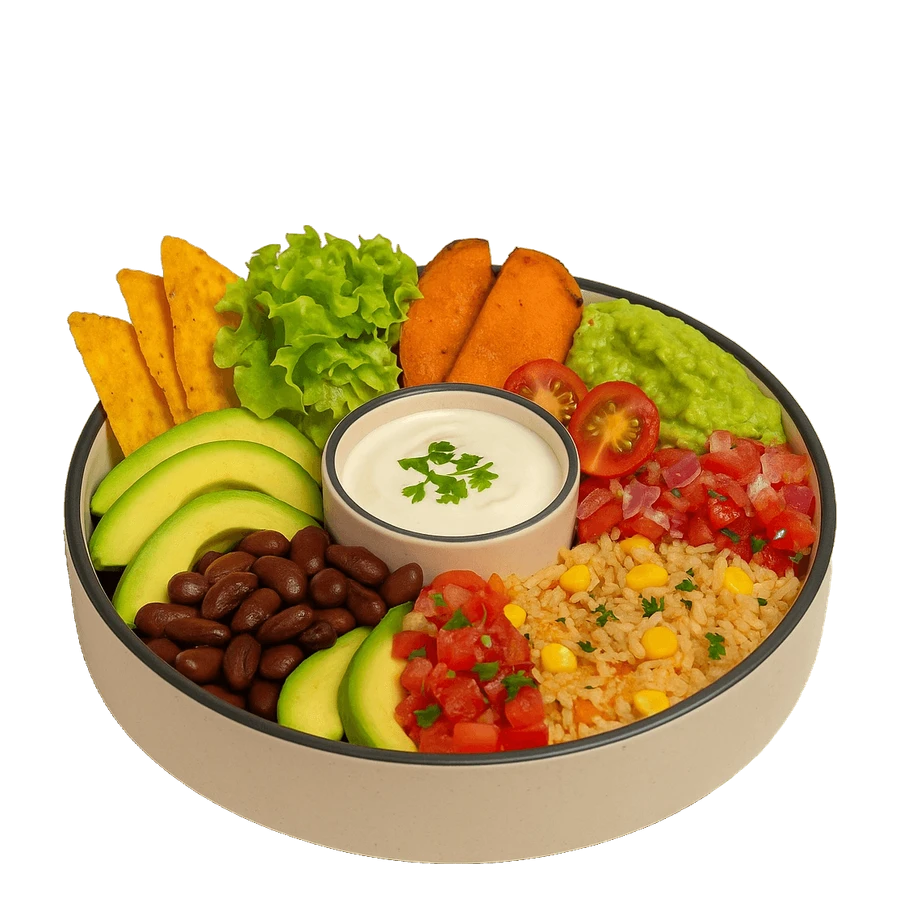
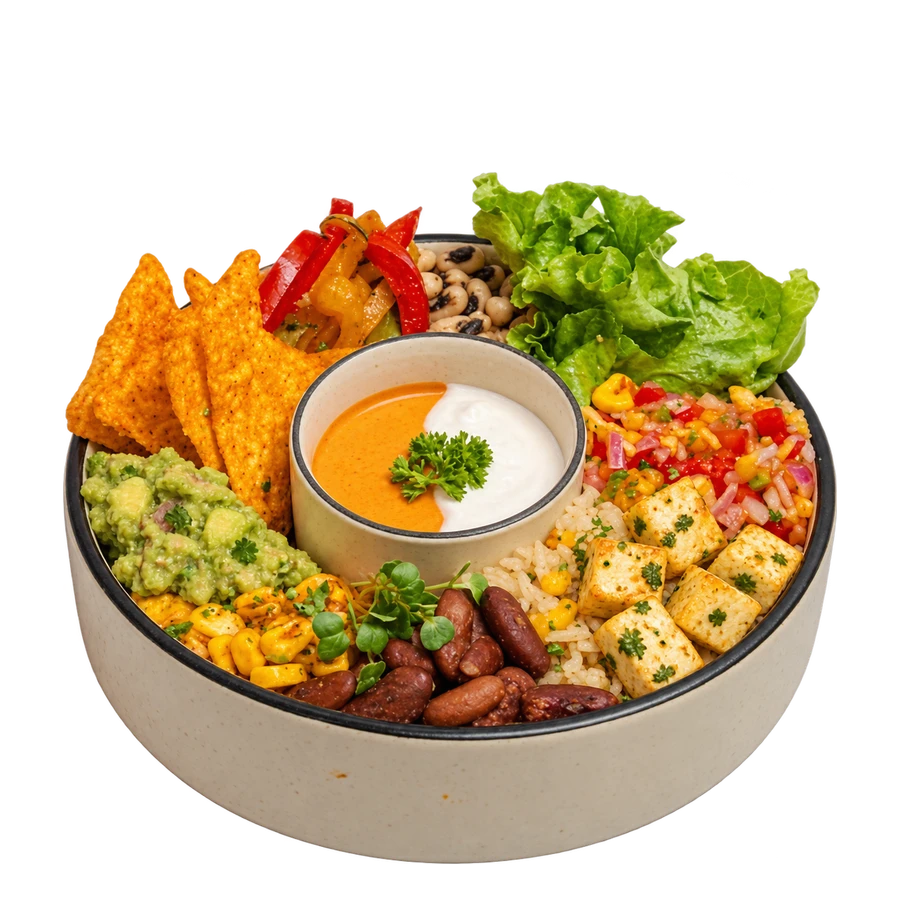
Screen 1: Signature Bowl replaces Thai Zen, new Burrito photos
- Signature Bowl (Rs 399) takes row 6; gold-bordered tile + gold "Signature"
  badge make it the one highlighted item on the grid.
- BYOB tile's gold goes white so gold means exactly one thing.
- Burrito Bowl gets a new top and side photo.
- "green goddess dressing" renamed to "lime cilantro jalapeno dressing" on
  Italian Harvest too. The Screen 2 panini of that name is deliberately
  unchanged - it's a dish name, not a dressing reference.
- Diet Tags left blank on the Signature Bowl on purpose: the ingredients do
  not establish a Gluten Free claim and that is not a thing to guess.
- ?v=11 -> ?v=12 on all twelve references.

diff --git a/bowls.css b/bowls.css
@@ -380,24 +380,39 @@
 .bowl-tile.byob-tile {
   background: var(--forest);
 }
-.byob-tile .tile-name { color: var(--gold); }
-.byob-tile .tile-desc { color: var(--gold); -webkit-line-clamp: 3; }
-.byob-tile .tile-price { color: var(--gold); }
+/* White, not gold. Gold is now reserved for the Signature tile so that it is
+   the only gold-accented tile on the grid — that exclusivity is what makes it
+   stand out. Do not reintroduce gold here. */
+.byob-tile .tile-name { color: #FFFFFF; }
+.byob-tile .tile-desc { color: #FFFFFF; -webkit-line-clamp: 3; }
+.byob-tile .tile-price { color: #FFFFFF; }
 
 .byob-icon {
   width: 123px;
   height: 123px;
   border-radius: 50%;
   background: rgba(255,255,255,0.10);
-  border: 2px solid var(--gold);
+  border: 2px solid #FFFFFF;
   display: flex;
   align-items: center;
   justify-content: center;
   flex-shrink: 0;
   font-size: 44px;
-  color: var(--gold);
+  color: #FFFFFF;
   font-weight: 300;
   line-height: 1;
+}
+
+/* ─── Signature tile ─────────────────────────────────────────────
+   The board's one gold-accented tile. DESIGN-PRINCIPLES §7 reserves gold for
+   what the customer should act on, and the BYOB tile gave up its gold for
+   this — being the only gold on the grid is what makes it read as special
+   from queue distance. box-sizing is border-box globally, so the border does
+   not change the tile's grid footprint. 3px, not 2px: a thinner rule
+   disappears at viewing distance on a 40" screen. */
+.bowl-tile.signature-tile {
+  border: 3px solid var(--gold);
+  box-shadow: 0 2px 14px rgba(184,149,106,0.28), 0 1px 3px rgba(40,63,40,0.06);
 }
 
 /* ═══════════════════════════════════════════════════════════════

diff --git a/bowls.js b/bowls.js
@@ -182,11 +182,17 @@ function tileHTML(bowl) {
      colour it maps to. Don't "fix" this mismatch. */
   if (bowl.badge === "Chef's Special") badgeClass = 'badge-spotlight';
   if (bowl.badge === 'Most Loved')     badgeClass = 'badge-loved';
+  if (bowl.badge === 'Signature')      badgeClass = 'badge-signature';
 
   const tags = tagsHTML(bowl.tags);
 
+  /* The Signature Bowl is the board's one gold-accented tile. Driven by the
+     badge value, not the slug, so the owner can move it to another bowl from
+     the Sheet without a code change. */
+  const tileClass = bowl.badge === 'Signature' ? 'bowl-tile signature-tile' : 'bowl-tile';
+
   return `
-    <div class="bowl-tile">
+    <div class="${tileClass}">
       ${hasBadge ? `<div class="tile-badge ${badgeClass}">${bowl.badge}</div>` : ''}
       <div class="tile-photo-wrap">
         <img src="${tileImageSrc(bowl)}" alt="${bowl.name}"

diff --git a/beverages.html b/beverages.html
@@ -7,8 +7,8 @@
   <link rel="preconnect" href="https://fonts.googleapis.com">
   <link rel="preconnect" href="https://fonts.gstatic.com" crossorigin>
   <link href="https://fonts.googleapis.com/css2?family=Playfair+Display:ital,wght@0,400;0,600;0,700;1,400&family=Inter:wght@300;400;500;600&family=Montserrat:wght@600;700&display=swap" rel="stylesheet">
-  <link rel="stylesheet" href="core.css?v=11">
-  <link rel="stylesheet" href="beverages.css?v=11">
+  <link rel="stylesheet" href="core.css?v=12">
+  <link rel="stylesheet" href="beverages.css?v=12">
 </head>
 <body>
   <div class="screen" id="screen">
@@ -82,7 +82,7 @@
 
   </div><!-- /.screen -->
 
-  <script src="core.js?v=11"></script>
-  <script src="beverages.js?v=11"></script>
+  <script src="core.js?v=12"></script>
+  <script src="beverages.js?v=12"></script>
 </body>
 </html>

diff --git a/wraps.html b/wraps.html
@@ -7,8 +7,8 @@
   <link rel="preconnect" href="https://fonts.googleapis.com">
   <link rel="preconnect" href="https://fonts.gstatic.com" crossorigin>
   <link href="https://fonts.googleapis.com/css2?family=Playfair+Display:ital,wght@0,400;0,600;0,700;1,400&family=Inter:wght@300;400;500;600&family=Montserrat:wght@600;700&display=swap" rel="stylesheet">
-  <link rel="stylesheet" href="core.css?v=11">
-  <link rel="stylesheet" href="wraps.css?v=11">
+  <link rel="stylesheet" href="core.css?v=12">
+  <link rel="stylesheet" href="wraps.css?v=12">
 </head>
 <body>
   <div class="screen" id="screen">
@@ -100,7 +100,7 @@
 
   </div><!-- /.screen -->
 
-  <script src="core.js?v=11"></script>
-  <script src="wraps.js?v=11"></script>
+  <script src="core.js?v=12"></script>
+  <script src="wraps.js?v=12"></script>
 </body>
 </html>

diff --git a/bowls.html b/bowls.html
@@ -7,8 +7,8 @@
   <link rel="preconnect" href="https://fonts.googleapis.com">
   <link rel="preconnect" href="https://fonts.gstatic.com" crossorigin>
   <link href="https://fonts.googleapis.com/css2?family=Playfair+Display:ital,wght@0,400;0,600;0,700;1,400&family=Inter:wght@300;400;500;600&family=Montserrat:wght@600;700&display=swap" rel="stylesheet">
-  <link rel="stylesheet" href="core.css?v=11">
-  <link rel="stylesheet" href="bowls.css?v=11">
+  <link rel="stylesheet" href="core.css?v=12">
+  <link rel="stylesheet" href="bowls.css?v=12">
 </head>
 <body>
   <div class="screen" id="screen">
@@ -71,7 +71,7 @@
 
   </div><!-- /.screen -->
 
-  <script src="core.js?v=11"></script>
-  <script src="bowls.js?v=11"></script>
+  <script src="core.js?v=12"></script>
+  <script src="bowls.js?v=12"></script>
 </body>
 </html>

diff --git a/core.css b/core.css
@@ -226,6 +226,9 @@ body {
 }
 .tile-badge.badge-spotlight { background: var(--badge-green); }
 .tile-badge.badge-loved     { background: var(--badge-warm); }
+/* Gold pill needs dark text — the other two are white-on-dark, so inverting
+   it is part of what makes the Signature item read as a different class. */
+.tile-badge.badge-signature { background: var(--gold); color: var(--forest); }
 
 /* Rupee mark — superscript, slightly smaller than the number */
 .tile-rupee {
